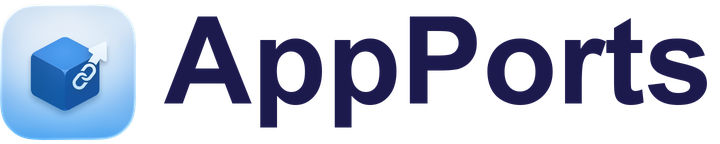
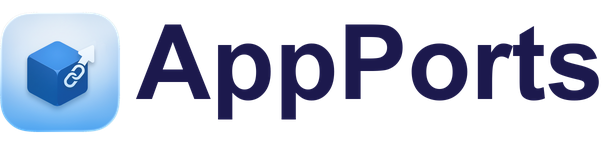
docs: fit GitBook wordmark on narrow screens

diff --git a/User_docs/GITBOOK_MIGRATION.md b/User_docs/GITBOOK_MIGRATION.md
@@ -38,7 +38,7 @@ GitBook 版式由 `scripts/gitbook-design.mjs` 统一定义，参考 [Cherry Stu
 
 站点的配色、侧栏、标志和顶栏链接记录在 `gitbook/site-theme.json`，由 GitBook 站点设置管理。Git Sync 不会自动应用此文件；调整时通过 CLI 读取现有设置并合并这些设计字段，再提交完整设置，保留其他站点选项。
 
-顶栏使用 GitBook 原生 `header.logo`、紧凑搜索和本地化的 GitHub／下载入口。`gitbook/brand/` 保存 720 × 144 的透明 PNG 字标，由现有 `docs/public/logo.png` 去除透明边距后与 Arial Bold 的 AppPorts 文字组合。`light` / `dark` 指页面模式：浅色模式的深紫顶栏配白字，深色模式的浅紫顶栏配深紫字。图片使用仓库 `main` 的公开原始文件 URL；先推送图片并确认 URL 可访问，再应用站点设置。它们不依赖 Git Sync 导入未被正文引用的图片；修改图片时应更新 URL 以刷新图片缓存。
+顶栏使用 GitBook 原生 `header.logo`、紧凑搜索和本地化的 GitHub／下载入口。`gitbook/brand/` 保存 612 × 144 的透明 PNG 字标，由现有 `docs/public/logo.png` 去除透明边距后与 Arial Bold 的 AppPorts 文字组合。`light` / `dark` 指页面模式：浅色模式的深紫顶栏配白字，深色模式的浅紫顶栏配深紫字。图片使用仓库 `main` 的公开原始文件 URL；先推送图片并确认 URL 可访问，再应用站点设置。它们不依赖 Git Sync 导入未被正文引用的图片；图片 URL 的 `v` 参数取文件 SHA-256 的前 12 位，修改图片时同步更新，以刷新图片缓存。
 
 这些配置遵循 [GitBook 图标、颜色和主题指南](https://gitbook.com/docs/documentation/zh/manage-your-site/customization/icons-colors-and-themes)。普通预览可能短暂保留旧主题；核验时使用 GitBook 原生自定义预览，确认其设置与站点 API 保存值一致，不通过发布站点来刷新预览。
 
